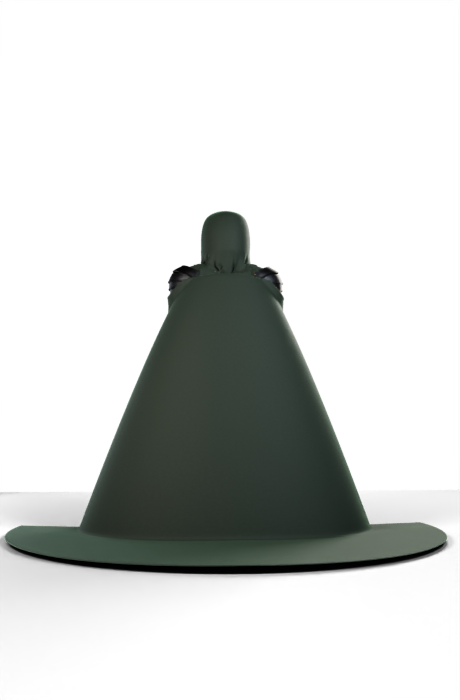
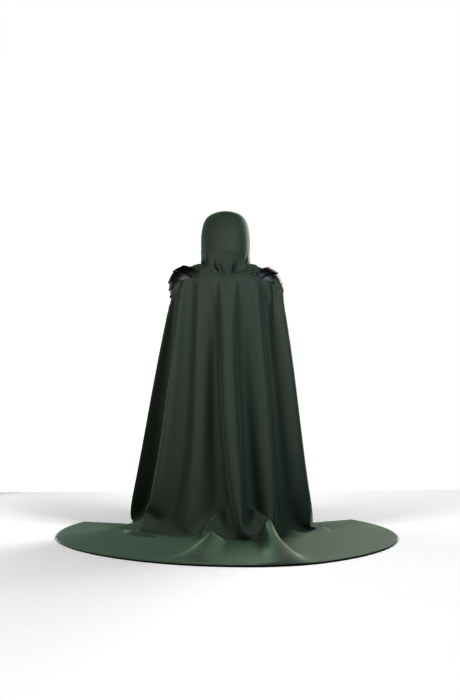
Doctor Doom CGI: refined cloak renders, final look-dev (low-specular velvet), render framing
Claude-Session: https://claude.ai/code/session_01QCbLLhRhhKSmvEsYX1B5Gh

diff --git a/doctor-doom-cgi/scripts/s11_render.py b/doctor-doom-cgi/scripts/s11_render.py
@@ -31,15 +31,32 @@ def light(name, kind, loc, energy, color, size=1.0, target=tgt, spot=None):
     if kind == "SPOT": ld.spot_size = math.radians(spot or 35); ld.spot_blend = 0.6; ld.shadow_soft_size = 0.15
     ob = bpy.data.objects.new(name, ld); ob.location = loc; lights.objects.link(ob); L.track_to(ob, target)
     return ob
-light("LGT_key_warm", "AREA", (1.9, -2.6, 3.3), 220, (1.0, 0.9, 0.78), 1.6)
-light("LGT_rim_green_L", "AREA", (-2.3, 1.9, 2.7), 650, (0.55, 1.0, 0.62), 1.0, tgt_head)
-light("LGT_rim_green_R", "AREA", (2.4, 1.7, 2.1), 480, (0.72, 1.0, 0.78), 1.0)
-light("LGT_top_spot", "SPOT", (0.2, -0.6, 4.2), 900, (0.9, 1.0, 0.92), target=tgt_head, spot=30)
+light("LGT_key_warm", "AREA", (1.9, -2.6, 3.3), 170, (1.0, 0.9, 0.78), 1.6)
+light("LGT_rim_green_L", "AREA", (-2.3, 1.9, 2.7), 380, (0.55, 1.0, 0.62), 1.0, tgt_head)
+light("LGT_rim_green_R", "AREA", (2.4, 1.7, 2.1), 280, (0.72, 1.0, 0.78), 1.0)
+light("LGT_top_spot", "SPOT", (0.2, -0.6, 4.2), 320, (0.9, 1.0, 0.92), target=tgt_head, spot=30)
 light("LGT_fill_cool", "AREA", (0.0, -3.2, 0.7), 35, (0.7, 0.85, 1.0), 2.5)
 world = sc.world
 bg = world.node_tree.nodes["Background"]
-bg.inputs["Color"].default_value = (0.004, 0.009, 0.005, 1); bg.inputs["Strength"].default_value = 0.6
+bg.inputs["Color"].default_value = (0.004, 0.009, 0.005, 1); bg.inputs["Strength"].default_value = 0.35
 
+# cloak look-dev: darker velvet, restrained sheen (posters read almost black-green)
+from doomlib import _sock
+for mn in ("MAT_cloak_velvet", "MAT_tunic_skirt_wool", "MAT_hood_heavy_wool"):
+    m = bpy.data.materials.get(mn)
+    if not m: continue
+    bs = m.node_tree.nodes["Principled BSDF"]
+    bs.inputs["Sheen Weight"].default_value = 0.30 if mn == "MAT_cloak_velvet" else 0.2
+    bs.inputs["Sheen Roughness"].default_value = 0.4
+    bs.inputs["Specular IOR Level"].default_value = 0.12   # cloth: almost no broad dielectric sheen
+    bs.inputs["Sheen Tint"].default_value = (0.13, 0.27, 0.16, 1)
+    bs.inputs["Roughness"].default_value = 0.84
+    mix = bs.inputs["Base Color"].links[0].from_node
+    _sock(mix.inputs, "A", "RGBA").default_value = (0.0035, 0.0080, 0.0045, 1)
+    _sock(mix.inputs, "B", "RGBA").default_value = (0.0075, 0.0160, 0.0090, 1)
+for mn in ("MAT_tunic_padded_fabric", "MAT_cowl_black_knit", "MAT_armwrap_cloth"):
+    m = bpy.data.materials.get(mn)
+    if m: m.node_tree.nodes["Principled BSDF"].inputs["Specular IOR Level"].default_value = 0.2
 sc.render.engine = "CYCLES"; sc.cycles.device = "CPU"
 sc.cycles.samples = 16 if QUICK else 192
 sc.cycles.use_adaptive_sampling = True; sc.cycles.adaptive_threshold = 0.02
@@ -54,10 +71,10 @@ def cam(name, loc, lens, target):
     cd.dof.use_dof = True; cd.dof.focus_object = target; cd.dof.aperture_fstop = 4.0
     ob = bpy.data.objects.new(name, cd); ob.location = loc; cams.objects.link(ob); L.track_to(ob, target)
     return ob
-hero_tgt = bpy.data.objects.new("TGT_hero", None); hero_tgt.location = (0, 0.1, 1.05); cams.objects.link(hero_tgt)
+hero_tgt = bpy.data.objects.new("TGT_hero", None); hero_tgt.location = (0, 0.1, 1.0); cams.objects.link(hero_tgt)
 back_tgt = bpy.data.objects.new("TGT_back", None); back_tgt.location = (0, 0.5, 0.95); cams.objects.link(back_tgt)
-cam("CAM_final_hero", (1.25, -3.6, 0.55), 32, hero_tgt)
-cam("CAM_final_back", (0.35, 4.6, 0.45), 30, back_tgt)
+cam("CAM_final_hero", (1.0, -3.4, 0.55), 28, hero_tgt)
+cam("CAM_final_back", (0.25, 3.15, 0.42), 30, back_tgt)
 cam("CAM_final_mask", (0.32, -1.15, 1.62), 85, tgt_head)
 
 res = (960, 540) if QUICK else (1920, 1080)
